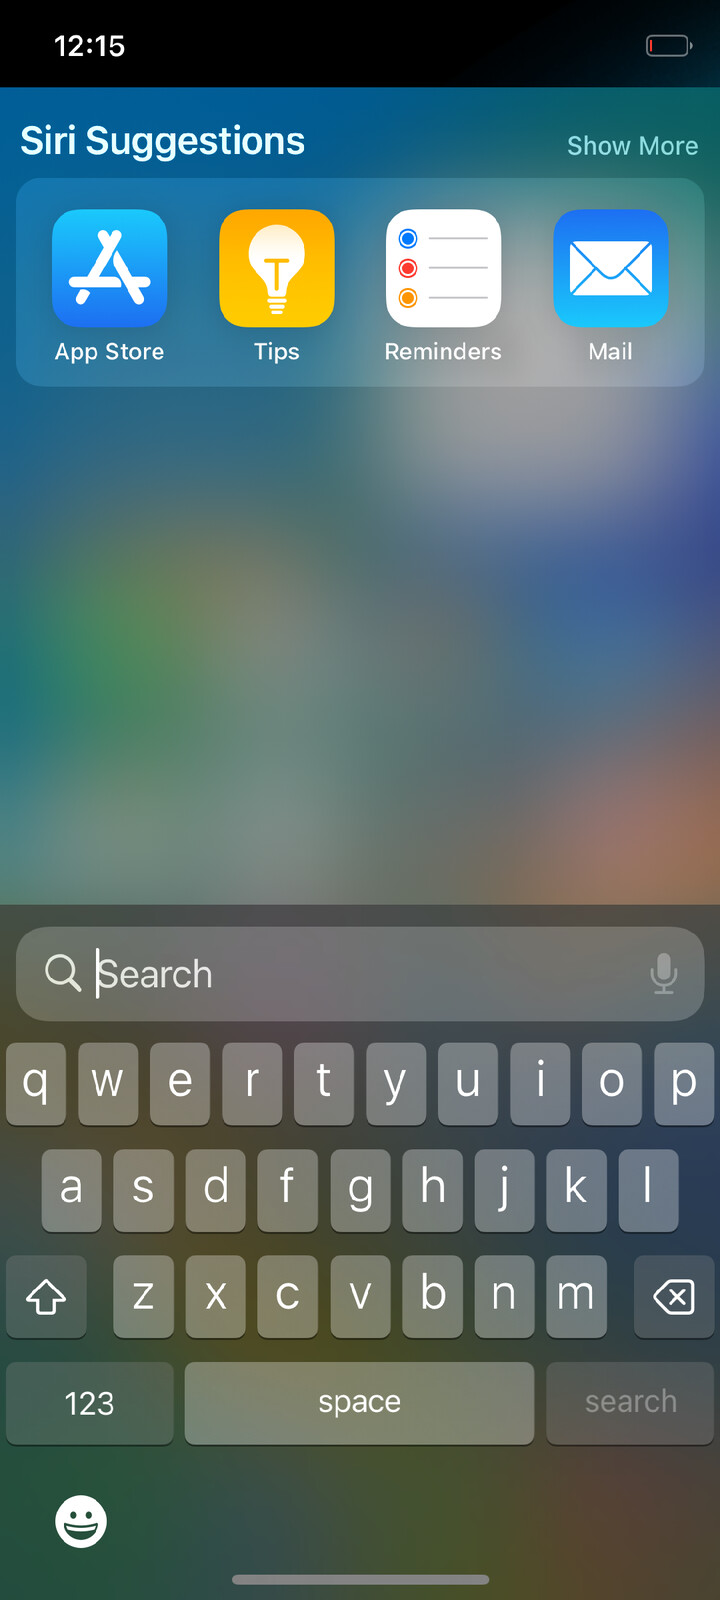
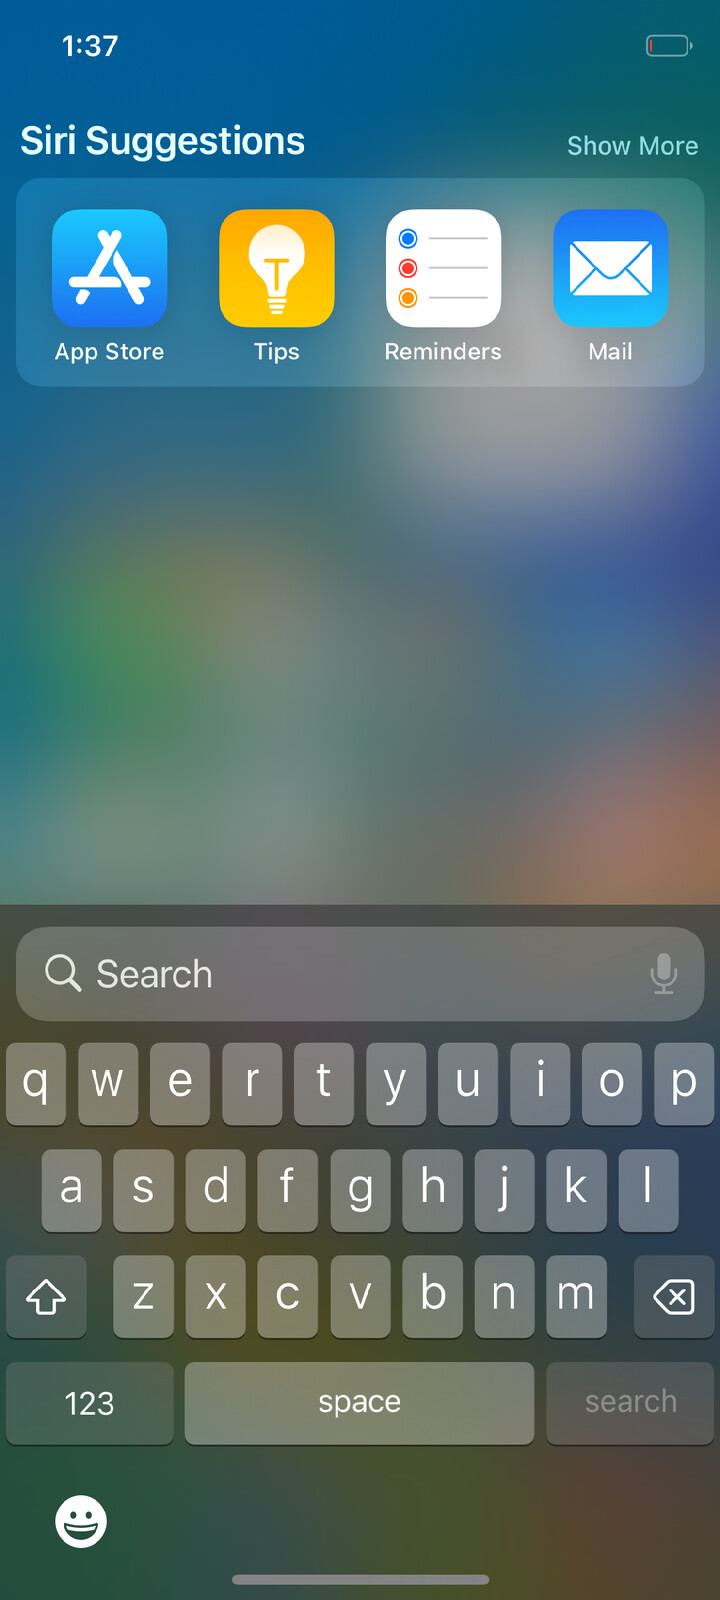
GPU: full-precision shaders, the variable blur's strip, a real eight-times downsample
Three things the census and two complaints led to, all in eagl.c:

The Weather widget's sky in horizontal bands. Its gradient goes through a table of
colours (32 x 1024, a cube laid out flat) whose row CoreAnimation's shader works
out in "mediump": sixteen bits on an Adreno, eleven of them the number, which is
half a row of 1024. "lowp" and "mediump" are now defined as "highp" in every shader
of CoreAnimation's, vertex shaders included (glprecision=0: as written).

The black band behind the status bar in Search. It is the variable blur (functions
vrd and vrb), and what the OpenGL ES renderer does for it, four times, is to clear a
texture and draw into it from itself: the Metal renderer's mip levels without the
levels. What that leaves is the driver's choice, and it was black after one route to
Search and the picture after another. Such a draw is skipped now, and so is its
clear: a clear of the texture that is also bound to be read is put off until the
next draw says what it is (CoreAnimation's context can be asked which function only
while it draws: asked at the glClear, the window server crashed). The strip is the
unblurred copy of what is under it.

ds8, a picture made eight times smaller before it is blurred: sixteen samples at the
four places CoreAnimation gives, mirrored, instead of one in the middle.

gltrace_function=N[,K] traces the frames after the Kth program-less draw of
function N, which is how the second was found.
[…]

Changed region(s): [[0.0, 0.0, 1.0, 0.0625], [0.1222, 0.5938, 0.1528, 0.625]]

diff --git a/userland/src/eagl.c b/userland/src/eagl.c
@@ -39,8 +39,9 @@
  * "gl:"; with each draw what it is made of -- the texture, the first corners -- and after it a
  * pixel or two of the framebuffer; gltrace_lit=1: and how much of the framebuffer is not black);
  * gltrace_at=SECONDS does so for the first frame that long after the window server started,
- * gltrace_draws=N for the first frame after one of N draws, gltrace_frames=N for N frames from
- * either on; gltrace_place=X0,Y0,X1,Y1 writes down, of those frames, only the draws whose corners
+ * gltrace_draws=N for the first frame after one of N draws, gltrace_function=N[,K] for the frame
+ * after the Kth draw CoreAnimation makes of its function N with no program, gltrace_frames=N for
+ * N frames from any of them on; gltrace_place=X0,Y0,X1,Y1 writes down, of those frames, only the draws whose corners
  * reach into that rectangle, a line each (lines "gl-at:"; writing everything down is slow, and a
  * window server that is slow draws other frames), gltrace_look=1 adds the pixel each of them
  * left in the middle of itself; glcensus=1 keeps count of the draws CoreAnimation makes with no
@@ -49,7 +50,7 @@
  * draws without a program alone, glcopy=1 copies every IOSurface as if the library could not
  * share one, glwait=1 waits for the GPU at the end of every frame and glwait=0 never (see
  * wait_for_frames), glfetch=0 keeps EXT_shader_framebuffer_fetch from CoreAnimation (see
- * fetch_offered), glenv=NAME=VALUE puts that into the environment for the library to find
+ * fetch_offered), glprecision=0 leaves the shaders' "lowp" and "mediump" as they are (see all_highp), glenv=NAME=VALUE puts that into the environment for the library to find
  * (its own switches: FD_MESA_DEBUG=sysmem, say).
  */
 #include <CoreFoundation/CoreFoundation.h>
@@ -223,6 +224,12 @@ struct eagl {
 	int blended;                    /* blending is off for such a draw, to be put back after it */
 	bool no_vibrant;                /* the first of the two could not be made */
 	GLint vibrant_matrix, vibrant_colours, masking_matrix, masking_colours;
+	GLbitfield unclear;             /* a glClear put off until the next draw (clear_now()), and what it was to be made with */
+	GLint unclear_box[4];
+	GLfloat unclear_colour[4];
+	GLboolean unclear_boxed;
+	GLuint box;                     /* and one that makes a picture eight times smaller */
+	GLint box_matrix, box_places;
 	unsigned unit;                  /* the texture unit being spoken of */
 	GLuint bound[8];                /* the 2D texture bound to each of the first units */
 	const GLfloat *matrix;          /* where CoreAnimation keeps the matrix it gives its programs */
@@ -250,6 +257,8 @@ static uint64_t trace_at;                       /* ... or the first frame from t
 static unsigned trace_draws;                    /* ... or the first frame after one of so many draws */
 static unsigned trace_frames = 1, trace_left;   /* ... and how many frames from there on */
 static int trace_lit;                           /* boot-arg gltrace_lit=1: count the lit pixels after every traced draw (slow) */
+static int trace_function = -1, trace_function_after = 1;       /* boot-arg gltrace_function=N[,K]: the frames after the Kth draw ... */
+static int trace_function_met;                                  /* ... CoreAnimation makes of its function N with no program */
 static float trace_place[4];                    /* boot-arg gltrace_place=X0,Y0,X1,Y1: of those frames, only the draws that touch this */
 static int trace_placed, trace_placing;         /* ... is set; ... and this frame is one of them */
 static int trace_look;                          /* boot-arg gltrace_look=1: ... and what each of them left in the middle of itself */
@@ -284,8 +293,13 @@ static int wait_for_frames = 1;
  */
 static int fetch_offered = 1;
 
+#define GL_SCISSOR_TEST                 0x0c11
+#define GL_SCISSOR_BOX                  0x0c10
+#define GL_COLOR_CLEAR_VALUE            0x0c22
+
 static const char *eagl_slot_name(unsigned offset);
 static void census_report(void);
+static void clear_now(struct eagl *e);
 
 static void
 eagl_enter(struct eagl *e, unsigned offset)
@@ -703,10 +717,12 @@ frame_begin(struct eagl *e)
 	e->in_frame = true;
 	e->began = now_us();
 	eagl_tracing = e->frames + 1 >= trace_first && e->frames + 1 <= trace_last;
-	if ((trace_at != 0 && e->began >= trace_at) || (trace_draws != 0 && e->last_draws == trace_draws)) {
+	if ((trace_at != 0 && e->began >= trace_at) || (trace_draws != 0 && e->last_draws == trace_draws) || trace_function_met) {
 		trace_left = trace_frames;      /* (once) */
 		trace_at = 0;
 		trace_draws = 0;
+		trace_function_met = 0;
+		trace_function = -1;
 	}
 	trace_placing = 0;
 	if (trace_left != 0) {
@@ -743,9 +759,11 @@ static void
 frame_end(struct eagl *e, bool finished)
 {
 	static unsigned unfollowed;
-	uint64_t before = now_us(), waited, after;
+	uint64_t before, waited, after;
 	unsigned copied = 0, in_place = 0;
 
+	clear_now(e);
+	before = now_us();
 	for (unsigned i = 0; i < e->image_count; i++) {
 		if (e->images[i].target && e->images[i].drawn && e->images[i].shared) {
 			in_place++;
@@ -856,7 +874,16 @@ my_glClear(void *context, GLbitfield mask)
 	if (eagl_tracing) {
 		eagl_trace("glClear(%#x)\n", mask);
 	}
-	glClear(mask);
+	clear_now(e);
+	if (e->program == 0 && e->colour != 0 && e->colour == e->bound[0]) {
+		/* what is about to be cleared may be what the next draw reads: see reads_what_it_writes() */
+		e->unclear = mask;
+		e->unclear_boxed = glIsEnabled(GL_SCISSOR_TEST);
+		glGetIntegerv(GL_SCISSOR_BOX, e->unclear_box);
+		glGetFloatv(GL_COLOR_CLEAR_VALUE, e->unclear_colour);
+	} else {
+		glClear(mask);
+	}
 	EAGL_LEAVE(e, 0x58);
 }
 
@@ -962,8 +989,6 @@ trace_draw(struct eagl *e, GLenum type, const void *indices, GLint first, GLsize
 }
 
 #define GL_BLEND                        0x0be2
-#define GL_SCISSOR_TEST                 0x0c11
-#define GL_SCISSOR_BOX                  0x0c10
 #define GL_BLEND_DST_RGB                0x80c8
 #define GL_BLEND_SRC_RGB                0x80c9
 #define GL_HALF_FLOAT                   0x140b
@@ -1183,6 +1208,8 @@ static const char table_fragment[] =
  *   are that mask; drawn as they were, they stayed white.
  */
 #define FUNCTION_MATRIX_PREMULTIPLIED   20
+#define FUNCTION_DOWNSAMPLE_8           28
+#define FUNCTION_VARIABLE_DOWNSAMPLE    38
 #define FUNCTION_VIBRANT_MATRIX         45
 
 static const char vibrant_fragment[] =
@@ -1214,6 +1241,32 @@ static const char masking_fragment[] =
     "  result = clamp(s.r * colours[0] + s.g * colours[1] + s.b * colours[2] + s.a * colours[3] + colours[4], 0., 1.);\n"
     "}\n";
 
+/*
+ *   "ds8" (28): a picture made eight times smaller in one go, the first step of a blur of what is
+ *   behind a layer (capture_backdrop()). Its numbers are four places, one and three pixels of the
+ *   picture away each way: with the four of them mirrored in both directions, sixteen samples of
+ *   four pixels each, they are the sixty-four pixels that become one. (CoreAnimation's own shaders
+ *   for four and for six samples are of that kind; for this one the OpenGL ES renderer has none.)
+ *   Drawn as it was given, one sample in the middle, four pixels of the sixty-four made the one:
+ *   what is blurred after that shimmers when it moves.
+ */
+static const char box_fragment[] =
+    "#version 300 es\n"
+    "uniform lowp sampler2D texture0;\n"
+    "uniform highp vec2 places[4];\n"
+    "in lowp vec4 color;\n"
+    "in highp vec2 texcoord;\n"
+    "out lowp vec4 result;\n"
+    "void main() {\n"
+    "  highp vec2 middle = texcoord / vec2(textureSize(texture0, 0));\n"
+    "  highp vec4 sum = vec4(0.);\n"
+    "  for (int i = 0; i < 4; i++) {\n"
+    "    sum += texture(texture0, middle + places[i]) + texture(texture0, middle - places[i]);\n"
+    "    sum += texture(texture0, middle + places[i] * vec2(1., -1.)) + texture(texture0, middle + places[i] * vec2(-1., 1.));\n"
+    "  }\n"
+    "  result = color * sum * .0625;\n"
+    "}\n";
+
 static void *ca_context;                /* CoreAnimation's GLContext */
 static GLfloat function_values[90][20];
 static uint8_t function_given[90];
@@ -1239,6 +1292,56 @@ redwood_gl_function_values(void *context, unsigned function, unsigned index, siz
 
 /* boot-arg glplain=0: leave such draws as they are; 2: also those without a texture; 3: the two with a colour matrix drawn plainly too */
 static int plain_draws = 1;
+
+/*
+ * The blur whose radius varies over the picture (the filter variableBlur with a mask: the strip
+ * under the status bar in Search, through which what scrolls up fades into a blur) is made of two
+ * functions, "vrd" (38) and "vrb" (39): the first, four times over, is to make of a picture its
+ * smaller copies, each from the one before, and the second reads among them by the mask. In the
+ * Metal renderer the copies are the levels of one texture. The OpenGL ES renderer has neither
+ * shader, and nothing that says which level is drawn into: what it does, four times, is to clear
+ * the texture and draw into it with that same texture as the source. What that leaves is the
+ * driver's to decide (here now the picture, now nothing: the strip came out black after one
+ * route to Search and right after another).
+ * A picture is not drawn from itself here, nor cleared for it: the one level stays what it was,
+ * and "vrb" then copies it out plainly -- the strip unblurred, which under a status bar over a
+ * blurred wallpaper is not seen. What scrolls under it stays sharp where it should fade.
+ *
+ * Which function a draw is can be asked of CoreAnimation's context only while it draws (between
+ * frames the place it is read from may be gone: the window server died of being asked at a
+ * glClear). So a clear of the texture that is also the one bound to be read is put off, with
+ * the scissor and the colour it was to be made with, until the next draw says what it is: that
+ * function, and the clear is dropped with the draw; anything else, and it is made first.
+ */
+static bool
+reads_what_it_writes(struct eagl *e)
+{
+	return e->program == 0 && e->colour != 0 && e->colour == e->bound[0] && ca_context != NULL &&
+	       *(*(uint8_t **)((char *)ca_context + 0x10) + 0x10) == FUNCTION_VARIABLE_DOWNSAMPLE;
+}
+
+static void
+clear_now(struct eagl *e)
+{
+	GLint box[4] = { 0, 0, 0, 0 };
+	GLfloat colour[4] = { 0, 0, 0, 0 };
+	GLboolean boxed;
+
+	if (e->unclear == 0) {
+		return;
+	}
+	boxed = glIsEnabled(GL_SCISSOR_TEST);
+	glGetIntegerv(GL_SCISSOR_BOX, box);
+	glGetFloatv(GL_COLOR_CLEAR_VALUE, colour);
+	(e->unclear_boxed ? glEnable : glDisable)(GL_SCISSOR_TEST);
+	glScissor(e->unclear_box[0], e->unclear_box[1], e->unclear_box[2], e->unclear_box[3]);
+	glClearColor(e->unclear_colour[0], e->unclear_colour[1], e->unclear_colour[2], e->unclear_colour[3]);
+	glClear(e->unclear);
+	e->unclear = 0;
+	(boxed ? glEnable : glDisable)(GL_SCISSOR_TEST);
+	glScissor(box[0], box[1], box[2], box[3]);
+	glClearColor(colour[0], colour[1], colour[2], colour[3]);
+}
 
 /* One of our programs, made: CoreAnimation's own vertex arrays go in at the places it has them. */
 static GLuint
@@ -1277,11 +1380,12 @@ plain_program(const char *fragment, const char *what)
  * in those seconds (which is what tells the screens of a scenario apart); and with that the
  * count of each since the start.
  */
-enum { CENSUS_NOT_DRAWN, CENSUS_PLAIN, CENSUS_TABLE, CENSUS_VIBRANT, CENSUS_MASKING, CENSUS_KINDS };
+enum { CENSUS_NOT_DRAWN, CENSUS_PLAIN, CENSUS_TABLE, CENSUS_VIBRANT, CENSUS_MASKING, CENSUS_BOX, CENSUS_KINDS };
 static const char *const census_kinds[CENSUS_KINDS] = {
-	"NOT DRAWN (no program, and no texture or nothing of ours to draw it with)", "drawn as the picture it is given (colour times texture)",
+	"NOT DRAWN (no program, and no texture, or nothing of ours to draw it with, or it would read what it writes)", "drawn as the picture it is given (colour times texture)",
 	"drawn through a table (ours, for the home indicator)", "drawn with our program for a colour matrix over what is behind",
 	"drawn with our program for a colour matrix over premultiplied pixels",
+	"drawn with our program that makes a picture eight times smaller",
 };
 static int census_on;
 static struct census {
@@ -1419,16 +1523,23 @@ plain_draw_begin(struct eagl *e, GLint enabled[3])
 	GLint rows = 0;
 	GLuint program;
 
+	if (e->unclear != 0 && reads_what_it_writes(e)) {
+		e->unclear = 0;
+	}
+	clear_now(e);
 	if (e->program != 0) {
 		return false;
 	}
-	if (!plain_draws || (plain_draws == 1 && e->bound[0] == 0)) {
+	if (!plain_draws || (plain_draws == 1 && e->bound[0] == 0) || reads_what_it_writes(e)) {
 		census_draw(e, function, CENSUS_NOT_DRAWN);
 		return false;
 	}
 	if (function < 90 && !said[function]) {
 		said[function] = 1;
 		say("redwood-gl: a draw with no program is CoreAnimation's function %u (\"%s\")\n", function, census_name(function));
+	}
+	if ((int)function == trace_function && --trace_function_after == 0) {
+		trace_function_met = 1;
 	}
 	e->blended = 0;
 	if (e->bound[0] != 0 && plain_draws != 3 && function < 90 && ((function == FUNCTION_VIBRANT_MATRIX && fetch_offered) ||
@@ -1461,6 +1572,24 @@ plain_draw_begin(struct eagl *e, GLint enabled[3])
 			e->blended = 1;                 /* the program has blended already */
 			glDisable(GL_BLEND);
 		}
+		for (GLuint i = 0; i < 3; i++) {
+			glGetVertexAttribiv(i, GL_VERTEX_ATTRIB_ARRAY_ENABLED, &enabled[i]);
+			if (!enabled[i]) {
+				glEnableVertexAttribArray(i);
+			}
+		}
+		return true;
+	}
+	if (e->bound[0] != 0 && plain_draws != 3 && function == FUNCTION_DOWNSAMPLE_8 && function_given[function] == 8) {
+		if (e->box == 0) {
+			e->box = plain_program(box_fragment, "eight times smaller, sixteen samples");
+			e->box_matrix = glGetUniformLocation(e->box, "vertex_matrix");
+			e->box_places = glGetUniformLocation(e->box, "places");
+		}
+		census_draw(e, function, CENSUS_BOX);
+		glUseProgram(e->box);
+		glUniformMatrix4fv(e->box_matrix, 1, 0, e->matrix != NULL ? e->matrix : identity);
+		glUniform2fv(e->box_places, 4, function_values[function]);
 		for (GLuint i = 0; i < 3; i++) {
 			glGetVertexAttribiv(i, GL_VERTEX_ATTRIB_ARRAY_ENABLED, &enabled[i]);
 			if (!enabled[i]) {
@@ -1810,6 +1939,7 @@ my_glBindFramebuffer(void *context, GLenum target, GLuint framebuffer)
 	if (eagl_tracing) {
 		eagl_trace("glBindFramebuffer(%#x, %u)\n", target, framebuffer);
 	}
+	clear_now(e);                   /* (a clear put off is of what was drawn into until now) */
 	glBindFramebuffer(target, framebuffer);
 	if (target == GL_READ_FRAMEBUFFER) {
 		EAGL_LEAVE(e, 0x1508);
@@ -1912,6 +2042,21 @@ my_glPopGroupMarkerEXT(void *context)
  * version that 3.00 dropped are defined back, and texture2DRect() divides by textureSize().
  * (All of a program's shaders must be of one version, so all are treated alike.)
  */
+/*
+ * CoreAnimation's shaders say "lowp" and "mediump" for nearly everything, as shaders written for
+ * Apple's GPUs do. On an Adreno mediump is a float of sixteen bits, eleven of them the number: a
+ * place in a texture of 1024 rows worked out so is right to half a row, and the table CoreAnimation
+ * looks a gradient's colours up in (32 x 1024, a cube of colour laid out flat; its fragment shader
+ * with "c_st") then gives sixty-odd shades where it has thousands. The Weather widget's sky was
+ * drawn in horizontal bands by that. Everything is computed in full precision instead (the two
+ * words are defined away, in vertex shaders as well: a uniform must be the same in both).
+ * Boot-arg glprecision=0: as the shaders say.
+ */
+static int full_precision = 1;
+static const char all_highp[] =
+    "#define lowp highp\n"
+    "#define mediump highp\n";
+
 static const char fragment_start[] =
     "#define varying in\n"
     "#define texture2D texture\n"
@@ -1975,7 +2120,8 @@ my_glShaderSource(void *context, GLuint shader, GLsizei count, const GLchar *con
 {
 	struct eagl *e = context;
 	bool fragment = e->fragment[shader % 64], fetch;
-	const GLchar *parts[5] = { "#version 300 es\n", fragment ? fragment_start : vertex_start, "", NULL, "" };
+	const GLchar *parts[6] = { "#version 300 es\n", fragment ? fragment_start : vertex_start, "", NULL, "",
+		                   full_precision ? all_highp : "" };
 	size_t size = 1, extensions = 0;
 	char *text, *line, *head;
 
@@ -2010,7 +2156,7 @@ my_glShaderSource(void *context, GLuint shader, GLsizei count, const GLchar *con
 	}
 	free((void *)e->sources[shader % 64]);
 	e->sources[shader % 64] = text;
-	glShaderSource(shader, 5, parts, NULL);
+	glShaderSource(shader, 6, (const GLchar *const[6]){ parts[0], parts[5], parts[1], parts[2], parts[3], parts[4] }, NULL);
 	EAGL_LEAVE(e, 0x12a0);
 }
 
@@ -2338,6 +2484,10 @@ install(void)
 		if ((argument = strstr(arguments, "gltrace_draws=")) != NULL) {
 			trace_draws = (unsigned)strtoul(argument + 14, NULL, 10);
 		}
+		if ((argument = strstr(arguments, "gltrace_function=")) != NULL) {
+			trace_function = (int)strtoul(argument + 17, (char **)&argument, 10);
+			trace_function_after = *argument == ',' ? (int)strtoul(argument + 1, NULL, 10) : 1;
+		}
 		if ((argument = strstr(arguments, "gltrace_frames=")) != NULL) {
 			trace_frames = (unsigned)strtoul(argument + 15, NULL, 10);
 		}
@@ -2355,6 +2505,7 @@ install(void)
 		}
 		all_shaders = strstr(arguments, "glshaders=1") != NULL;
 		census_on = strstr(arguments, "glcensus=1") != NULL;
+		full_precision = strstr(arguments, "glprecision=0") == NULL;
 		if ((argument = strstr(arguments, "glplain=")) != NULL) {
 			plain_draws = (int)strtoul(argument + 8, NULL, 10);
 		}
